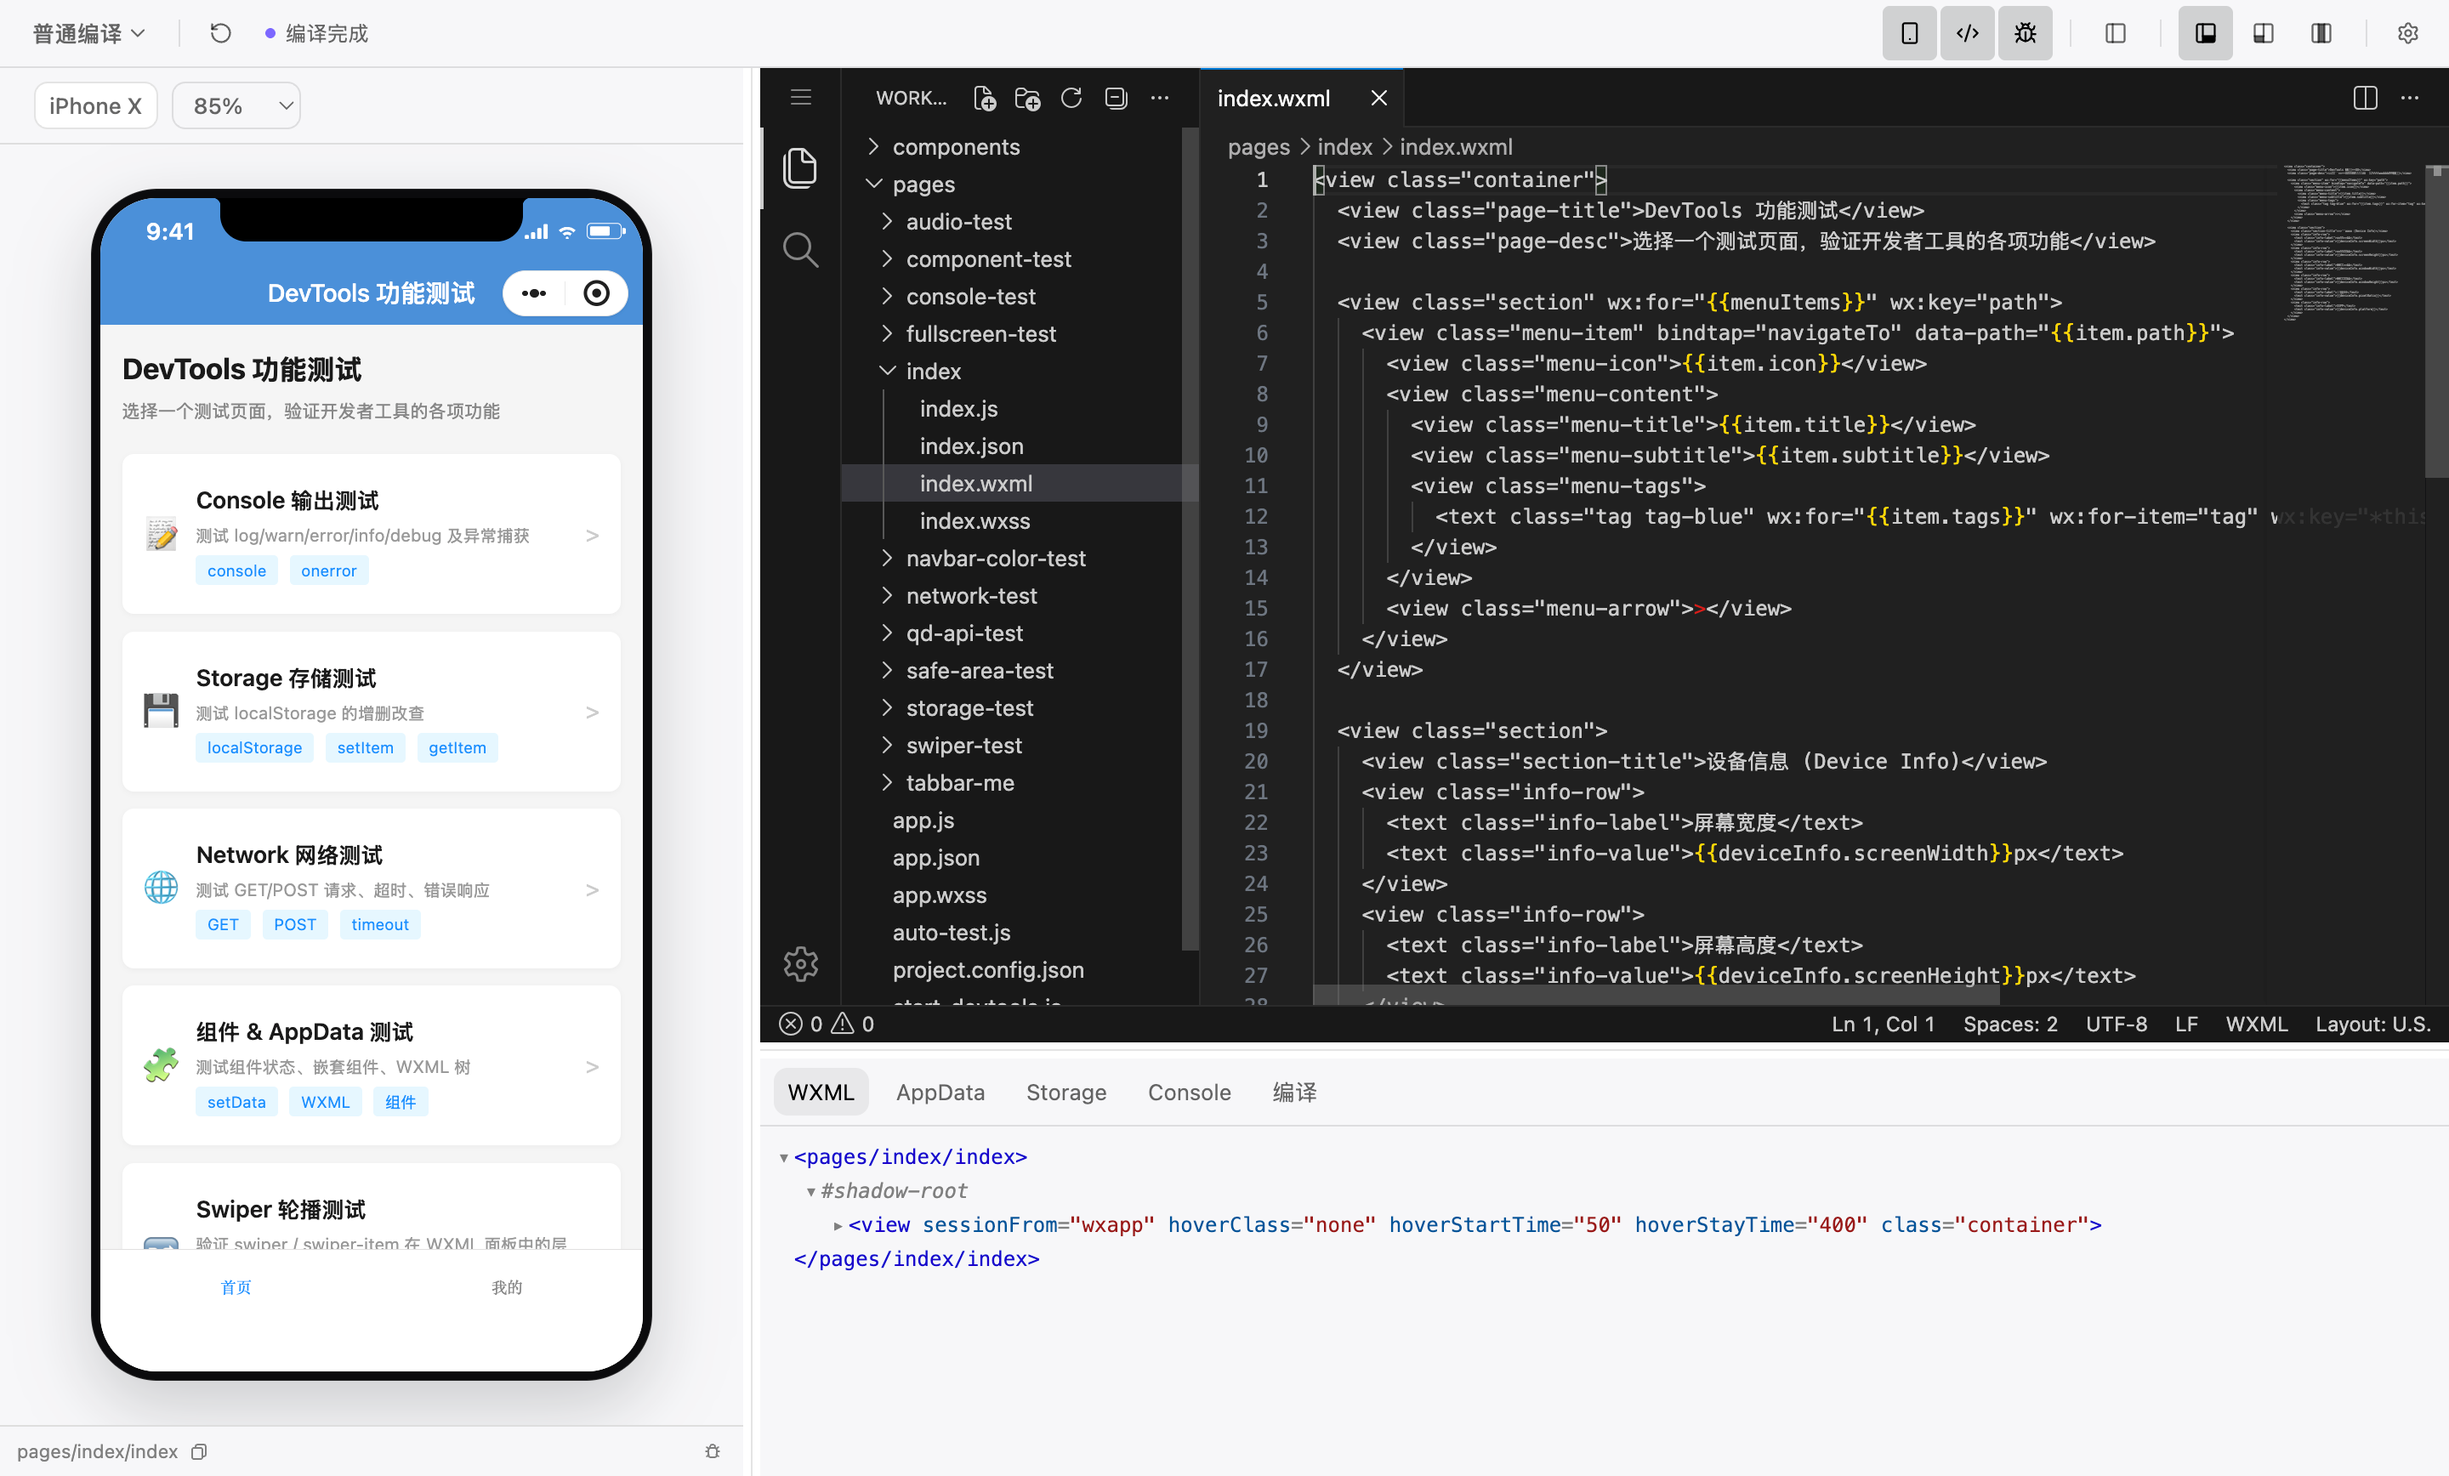
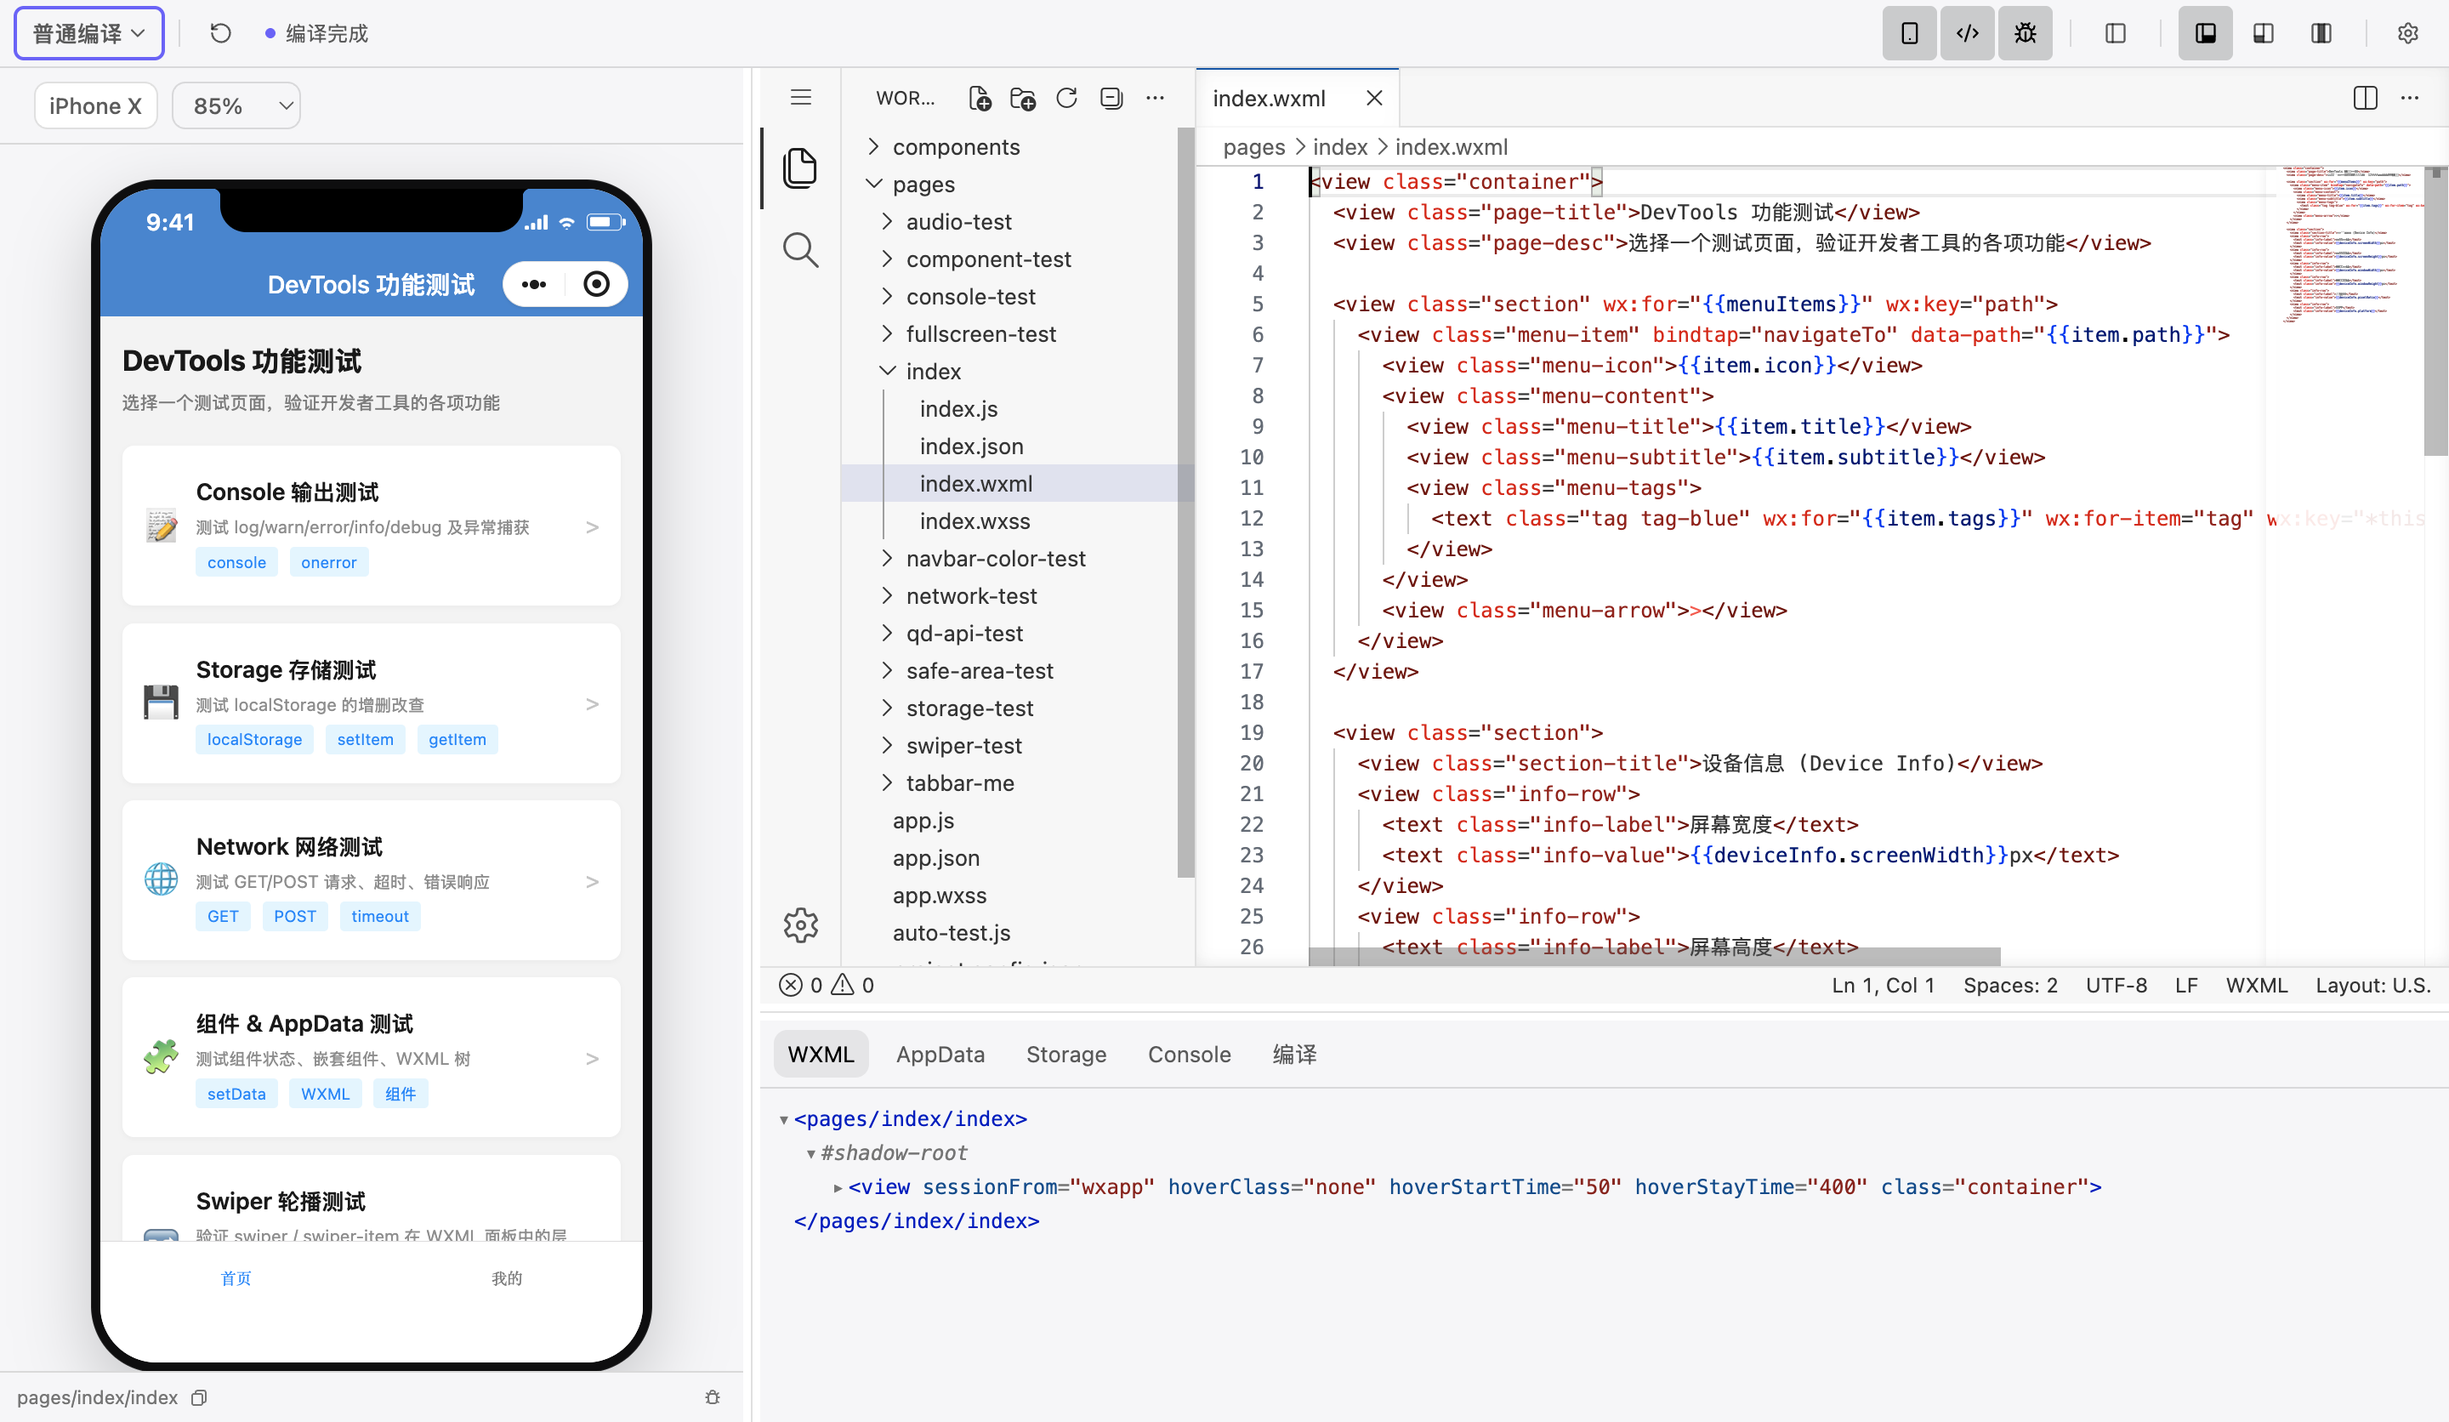
docs: add theme-aware DevTools screenshots

diff --git a/docs/index.html b/docs/index.html
@@ -18,7 +18,6 @@
   <body>
     <header class="site-header">
       <a class="brand" href="./" aria-label="Dimina Kit 首页">
-        <span class="brand-mark" aria-hidden="true">D</span>
         <span>Dimina Kit</span>
       </a>
       <nav aria-label="主导航">
@@ -42,7 +41,10 @@
         </div>
 
         <figure class="product-shot">
-          <img src="./devtools.png" width="2880" height="1736" alt="Dimina DevTools 工作台，左侧为小程序模拟器，右侧为开发者工具" />
+          <picture>
+            <source media="(prefers-color-scheme: dark)" srcset="./devtools-dark.png" />
+            <img src="./devtools.png" width="2880" height="1672" alt="Dimina DevTools 工作台，左侧为小程序模拟器，右侧为开发者工具" />
+          </picture>
         </figure>
       </section>
 
@@ -134,7 +136,7 @@ pnpm add @dimina-kit/devkit</code></pre>
     <footer>
       <div class="footer-inner">
         <div>
-          <a class="brand" href="./"><span class="brand-mark" aria-hidden="true">D</span><span>Dimina Kit</span></a>
+          <a class="brand" href="./"><span>Dimina Kit</span></a>
           <p>由回响科技开源维护的 Dimina 小程序开发者工具集。</p>
         </div>
         <div class="footer-links">

diff --git a/docs/styles.css b/docs/styles.css
@@ -71,20 +71,9 @@ a {
 .brand {
   display: inline-flex;
   align-items: center;
-  gap: 12px;
   font-size: 16px;
   font-weight: 720;
   letter-spacing: -0.01em;
-}
-
-.brand-mark {
-  display: grid;
-  width: 34px;
-  height: 34px;
-  place-items: center;
-  border-radius: 8px;
-  color: var(--color-on-accent);
-  background: var(--color-accent-solid);
 }
 
 nav {
@@ -214,6 +203,10 @@ h1 {
   border: 1px solid var(--color-border);
   border-radius: 10px;
   box-shadow: var(--shadow-panel);
+}
+
+.product-shot picture {
+  display: block;
 }
 
 .section {
